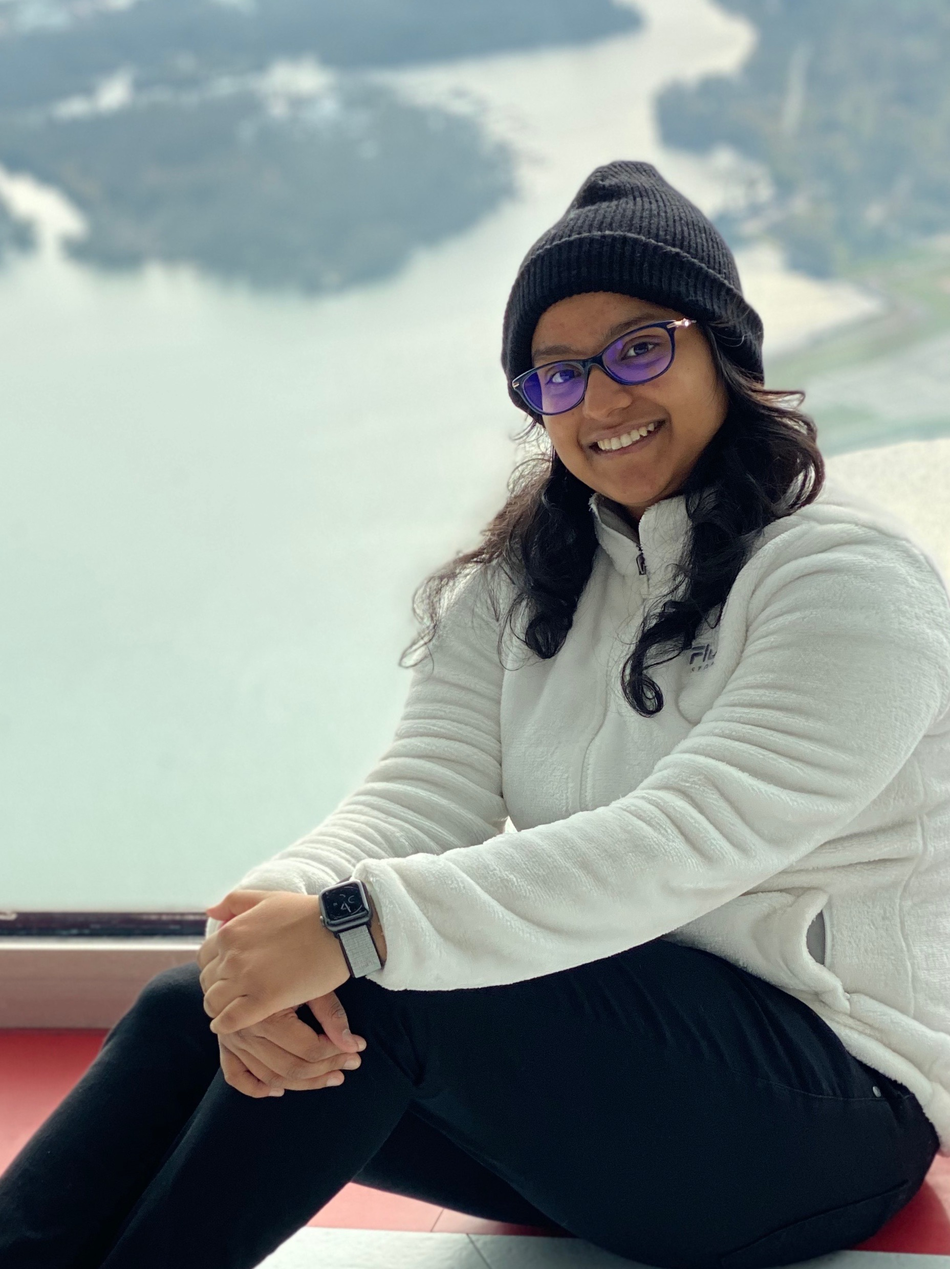
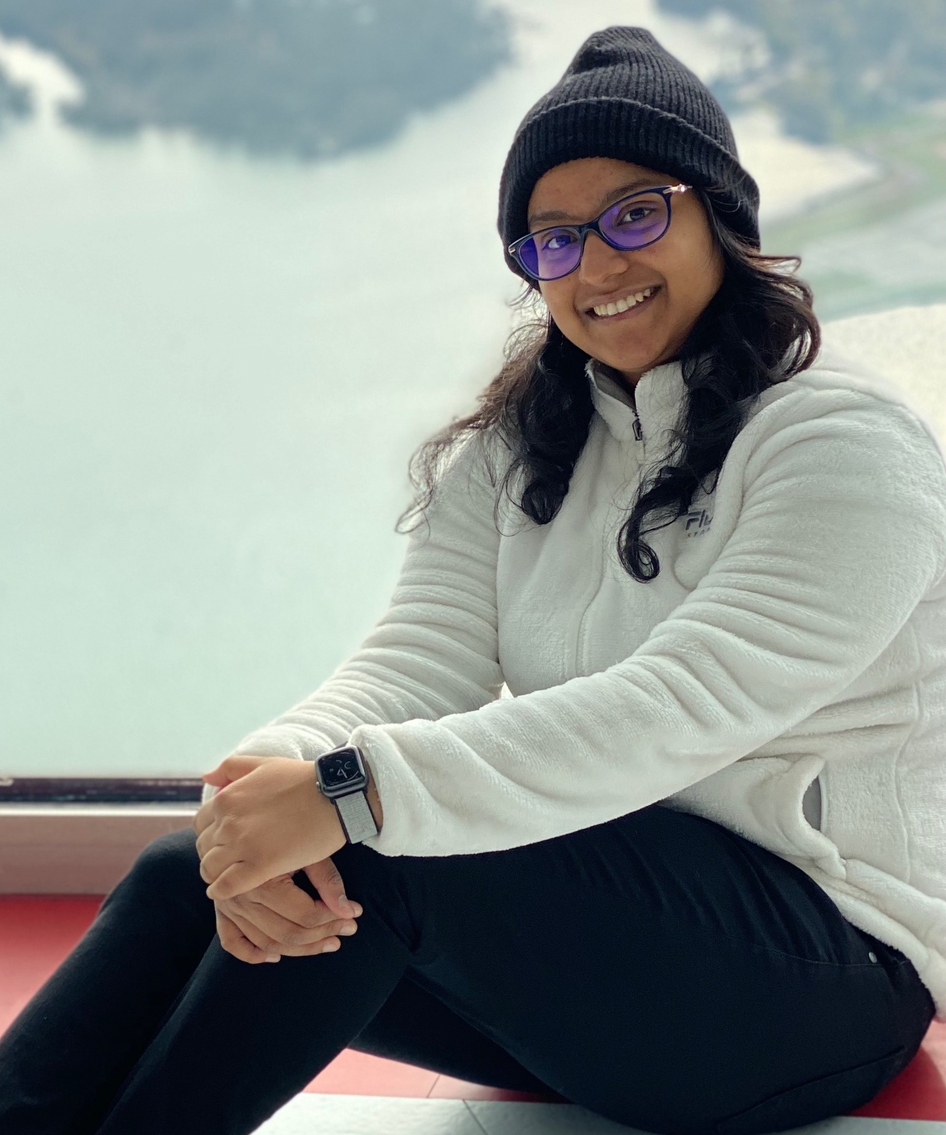
contact me

diff --git a/index.html b/index.html
@@ -285,7 +285,7 @@
 					  	<div class="row progress-circle mb-5">
 					  		<div class="col-lg-4 mb-4">
 						      <div class="bg-white rounded-lg shadow p-4">
-						        <h2 class="h5 font-weight-bold text-center mb-4">CSS</h2>
+						        <h2 class="h5 font-weight-bold text-center mb-4">Full Stack Web Development</h2>
 
 						        <!-- Progress bar 1 -->
 						        <div class="progress mx-auto" data-value='90'>
@@ -316,7 +316,7 @@
 
 						    <div class="col-lg-4 mb-4">
 						      <div class="bg-white rounded-lg shadow p-4">
-						        <h2 class="h5 font-weight-bold text-center mb-4">HTML</h2>
+						        <h2 class="h5 font-weight-bold text-center mb-4">iOS Development</h2>
 
 						        <!-- Progress bar 1 -->
 						        <div class="progress mx-auto" data-value='80'>
@@ -347,7 +347,7 @@
 
 						    <div class="col-lg-4 mb-4">
 						      <div class="bg-white rounded-lg shadow p-4">
-						        <h2 class="h5 font-weight-bold text-center mb-4">jQuery</h2>
+						        <h2 class="h5 font-weight-bold text-center mb-4">Android Development</h2>
 
 						        <!-- Progress bar 1 -->
 						        <div class="progress mx-auto" data-value='75'>
@@ -379,7 +379,7 @@
 					  	<div class="row">
 					  		<div class="col-md-6 animate-box">
 									<div class="progress-wrap ftco-animate">
-										<h3>Photoshop</h3>
+										<h3>Java</h3>
 										<div class="progress">
 										 	<div class="progress-bar color-1" role="progressbar" aria-valuenow="90"
 										  	aria-valuemin="0" aria-valuemax="100" style="width:90%">
@@ -390,7 +390,7 @@
 								</div>
 								<div class="col-md-6 animate-box">
 									<div class="progress-wrap ftco-animate">
-										<h3>jQuery</h3>
+										<h3>Python</h3>
 										<div class="progress">
 										 	<div class="progress-bar color-2" role="progressbar" aria-valuenow="85"
 										  	aria-valuemin="0" aria-valuemax="100" style="width:85%">
@@ -401,7 +401,7 @@
 								</div>
 								<div class="col-md-6 animate-box">
 									<div class="progress-wrap ftco-animate">
-										<h3>HTML5</h3>
+										<h3>C++/C</h3>
 										<div class="progress">
 										 	<div class="progress-bar color-3" role="progressbar" aria-valuenow="95"
 										  	aria-valuemin="0" aria-valuemax="100" style="width:95%">
@@ -412,7 +412,7 @@
 								</div>
 								<div class="col-md-6 animate-box">
 									<div class="progress-wrap ftco-animate">
-										<h3>CSS3</h3>
+										<h3>Swift</h3>
 										<div class="progress">
 										 	<div class="progress-bar color-4" role="progressbar" aria-valuenow="90"
 										  	aria-valuemin="0" aria-valuemax="100" style="width:90%">
@@ -514,7 +514,7 @@
 					    	</div>
 					    	<div class="text pl-3">
 		    					<span class="date">2019</span>
-		    					<h2>J Fred Muir Memorial Scholarship in Science/h2>
+		    					<h2>J Fred Muir Memorial Scholarship in Science</h2>
 		    					<span class="position">University of British Columbia</span>
 								<p>Awarded to exceptional students on the recommendation of
 									the Faculty of Science.</p>
@@ -801,7 +801,7 @@
           <div class="col-md-7 heading-section text-center ftco-animate">
             <h1 class="big big-2">Contact</h1>
             <h2 class="mb-4">Contact Me</h2>
-            <p>Far far away, behind the word mountains, far from the countries Vokalia and Consonantia</p>
+            <p>Let's chat! Waiting to hear from you :)</p>
           </div>
         </div>
 
@@ -813,7 +813,7 @@
           		</div>
           		<div>
 	          		<h3 class="mb-4">Address</h3>
-		            <p>198 West 21th Street, Suite 721 New York NY 10016</p>
+		            <p>2075 West Mall, Vancouver, BC, Canada, V6T 1Z2</p>
 		          </div>
 	          </div>
           </div>
@@ -823,8 +823,8 @@
           			<span class="icon-phone2"></span>
           		</div>
           		<div>
-	          		<h3 class="mb-4">Contact Number</h3>
-		            <p><a href="tel://1234567920">+ 1235 2355 98</a></p>
+	          		<h3 class="mb-4">Phone Number</h3>
+		            <p><a href="tel://2367773734">+1(236)-777-3734</a></p>
 	            </div>
 	          </div>
           </div>
@@ -835,7 +835,7 @@
           		</div>
           		<div>
 	          		<h3 class="mb-4">Email Address</h3>
-		            <p><a href="mailto:info@yoursite.com">info@yoursite.com</a></p>
+		            <p><a href="mailto:tashjain88@gmail.com">tashjain88@gmail.com</a></p>
 		          </div>
 	          </div>
           </div>
@@ -846,7 +846,7 @@
           		</div>
           		<div>
 	          		<h3 class="mb-4">Website</h3>
-		            <p><a href="#">yoursite.com</a></p>
+		            <p><a href="#">tashijain.github.io</a></p>
 	            </div>
 	          </div>
           </div>
@@ -875,7 +875,7 @@
           </div>
 
           <div class="col-md-6 d-flex">
-          	<div class="img" style="background-image: url(images/about.jpg);"></div>
+          	<div class="img" style="background-image: url(images/introimg.jpeg);"></div>
           </div>
         </div>
       </div>
@@ -888,11 +888,13 @@
           <div class="col-md">
             <div class="ftco-footer-widget mb-4">
               <h2 class="ftco-heading-2">About</h2>
-              <p>Far far away, behind the word mountains, far from the countries Vokalia and Consonantia, there live the blind texts.</p>
-              <ul class="ftco-footer-social list-unstyled float-md-left float-lft mt-5">
-                <li class="ftco-animate"><a href="#"><span class="icon-twitter"></span></a></li>
-                <li class="ftco-animate"><a href="#"><span class="icon-facebook"></span></a></li>
-                <li class="ftco-animate"><a href="#"><span class="icon-instagram"></span></a></li>
+			  <p>Hi! I'm Tashi, a rising junior at the University of British Columbia, Vancouver. 
+				  Tech enthusiast competent in Web and Mobile development. Passionate about role of Women in tech.</p>
+			  <ul class="ftco-footer-social list-unstyled float-md-left float-lft mt-5">
+				<li class="ftco-animate"><a href="https://www.linkedin.com/in/tashijain88/"><span class="icon-linkedin"></span></a></li>
+				<li class="ftco-animate"><a href="https://www.github.com/tashijain/"><span class="icon-github"></span></a></li>
+                <li class="ftco-animate"><a href="https://www.facebook.com/tashi.jain.5264/"><span class="icon-facebook"></span></a></li>
+                <li class="ftco-animate"><a href="https://www.instagram.com/tashjain88/"><span class="icon-instagram"></span></a></li>
               </ul>
             </div>
           </div>
@@ -912,22 +914,22 @@
              <div class="ftco-footer-widget mb-4">
               <h2 class="ftco-heading-2">Services</h2>
               <ul class="list-unstyled">
-                <li><a href="#"><span class="icon-long-arrow-right mr-2"></span>Web Design</a></li>
-                <li><a href="#"><span class="icon-long-arrow-right mr-2"></span>Web Development</a></li>
-                <li><a href="#"><span class="icon-long-arrow-right mr-2"></span>Business Strategy</a></li>
-                <li><a href="#"><span class="icon-long-arrow-right mr-2"></span>Data Analysis</a></li>
-                <li><a href="#"><span class="icon-long-arrow-right mr-2"></span>Graphic Design</a></li>
+                <li><a href="#"><span class="icon-long-arrow-right mr-2"></span>Front-end Web development</a></li>
+                <li><a href="#"><span class="icon-long-arrow-right mr-2"></span>Server-side Web development</a></li>
+                <li><a href="#"><span class="icon-long-arrow-right mr-2"></span>iOS Development</a></li>
+                <li><a href="#"><span class="icon-long-arrow-right mr-2"></span>Android Development</a></li>
+                <li><a href="#"><span class="icon-long-arrow-right mr-2"></span>General programming</a></li>
               </ul>
             </div>
           </div>
           <div class="col-md">
             <div class="ftco-footer-widget mb-4">
-            	<h2 class="ftco-heading-2">Have a Questions?</h2>
+            	<h2 class="ftco-heading-2">Have Questions?</h2>
             	<div class="block-23 mb-3">
 	              <ul>
-	                <li><span class="icon icon-map-marker"></span><span class="text">203 Fake St. Mountain View, San Francisco, California, USA</span></li>
-	                <li><a href="#"><span class="icon icon-phone"></span><span class="text">+2 392 3929 210</span></a></li>
-	                <li><a href="#"><span class="icon icon-envelope"></span><span class="text">info@yourdomain.com</span></a></li>
+	                <li><span class="icon icon-map-marker"></span><span class="text">2075 West Mall, Vancouver, BC, Canada, V6T 1Z2</span></li>
+	                <li><a href="#"><span class="icon icon-phone"></span><span class="text">+1(236)-777-3734</span></a></li>
+	                <li><a href="#"><span class="icon icon-envelope"></span><span class="text">tashjain88@gmail.com</span></a></li>
 	              </ul>
 	            </div>
             </div>
